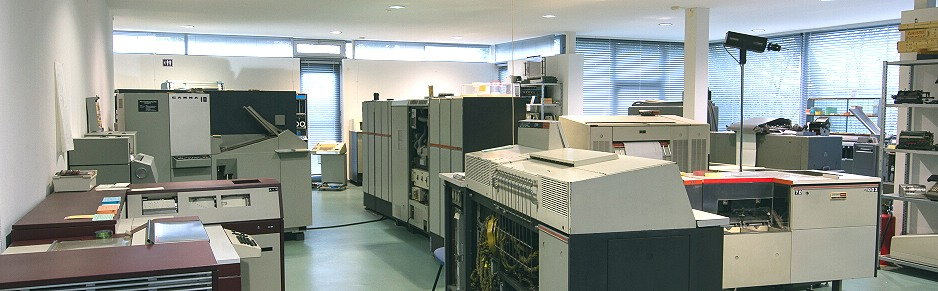
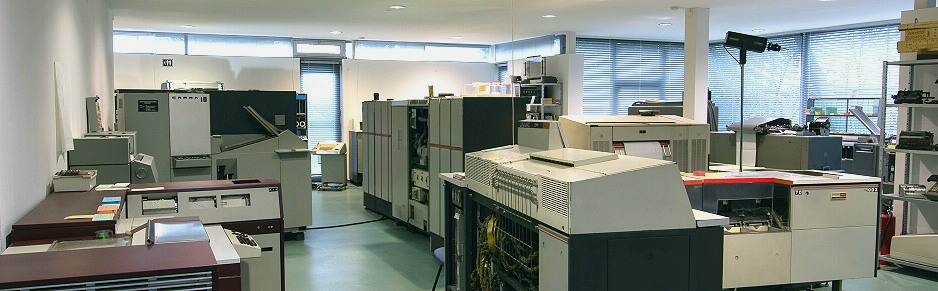
Termin geändert, Bild abgedunkelt
git-svn-id: https://www.technikum29.de/svn/technikum29-www@1427 388e7c26-a98e-49f6-8d48-46b9a15b27c2

diff --git a/de/termine.php b/de/termine.php
@@ -49,8 +49,9 @@
 	<tr>
 
 	
-	<td>So, <b>4. Februar</b><br>14:00 Uhr
-		<td>Computer-History
+	<td>So, <b>18. Februar</b><br>14:00 Uhr
+		<td>Computer-History<br>
+		<font color="#FF0000">Termin geändert!</font>
 		<td>Interaktive Führung<br>	
 		<td>Einzelpersonen und Kleingruppen<br>
 		<font color="#FF0000">Anmeldungen sind noch möglich</font>
